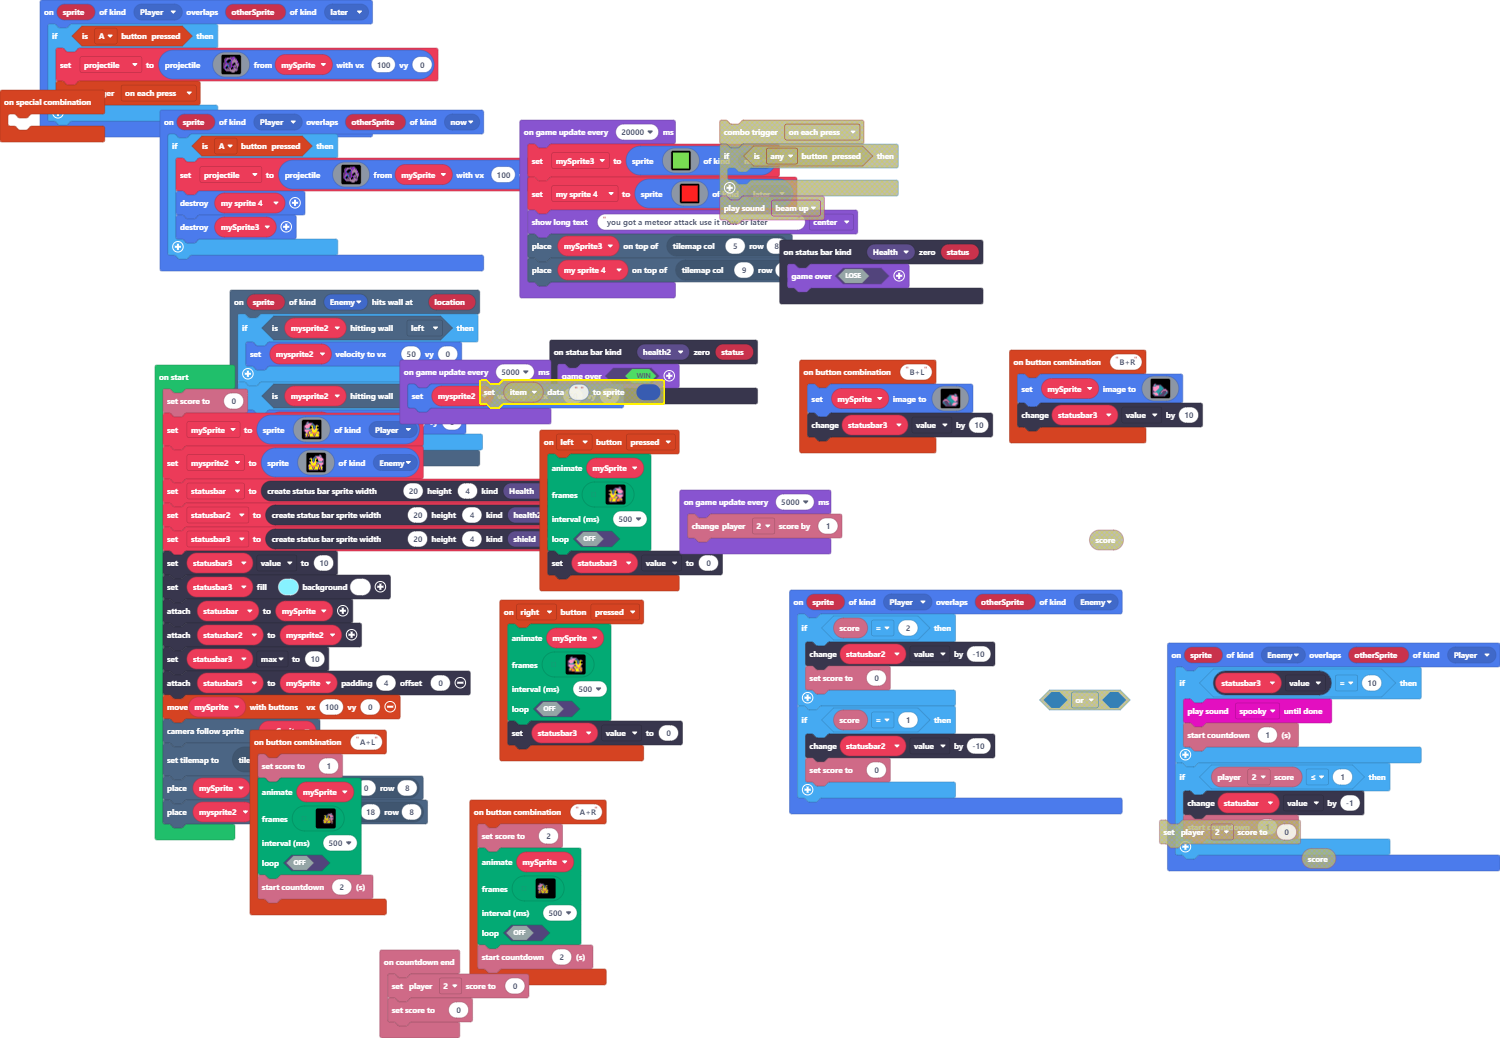
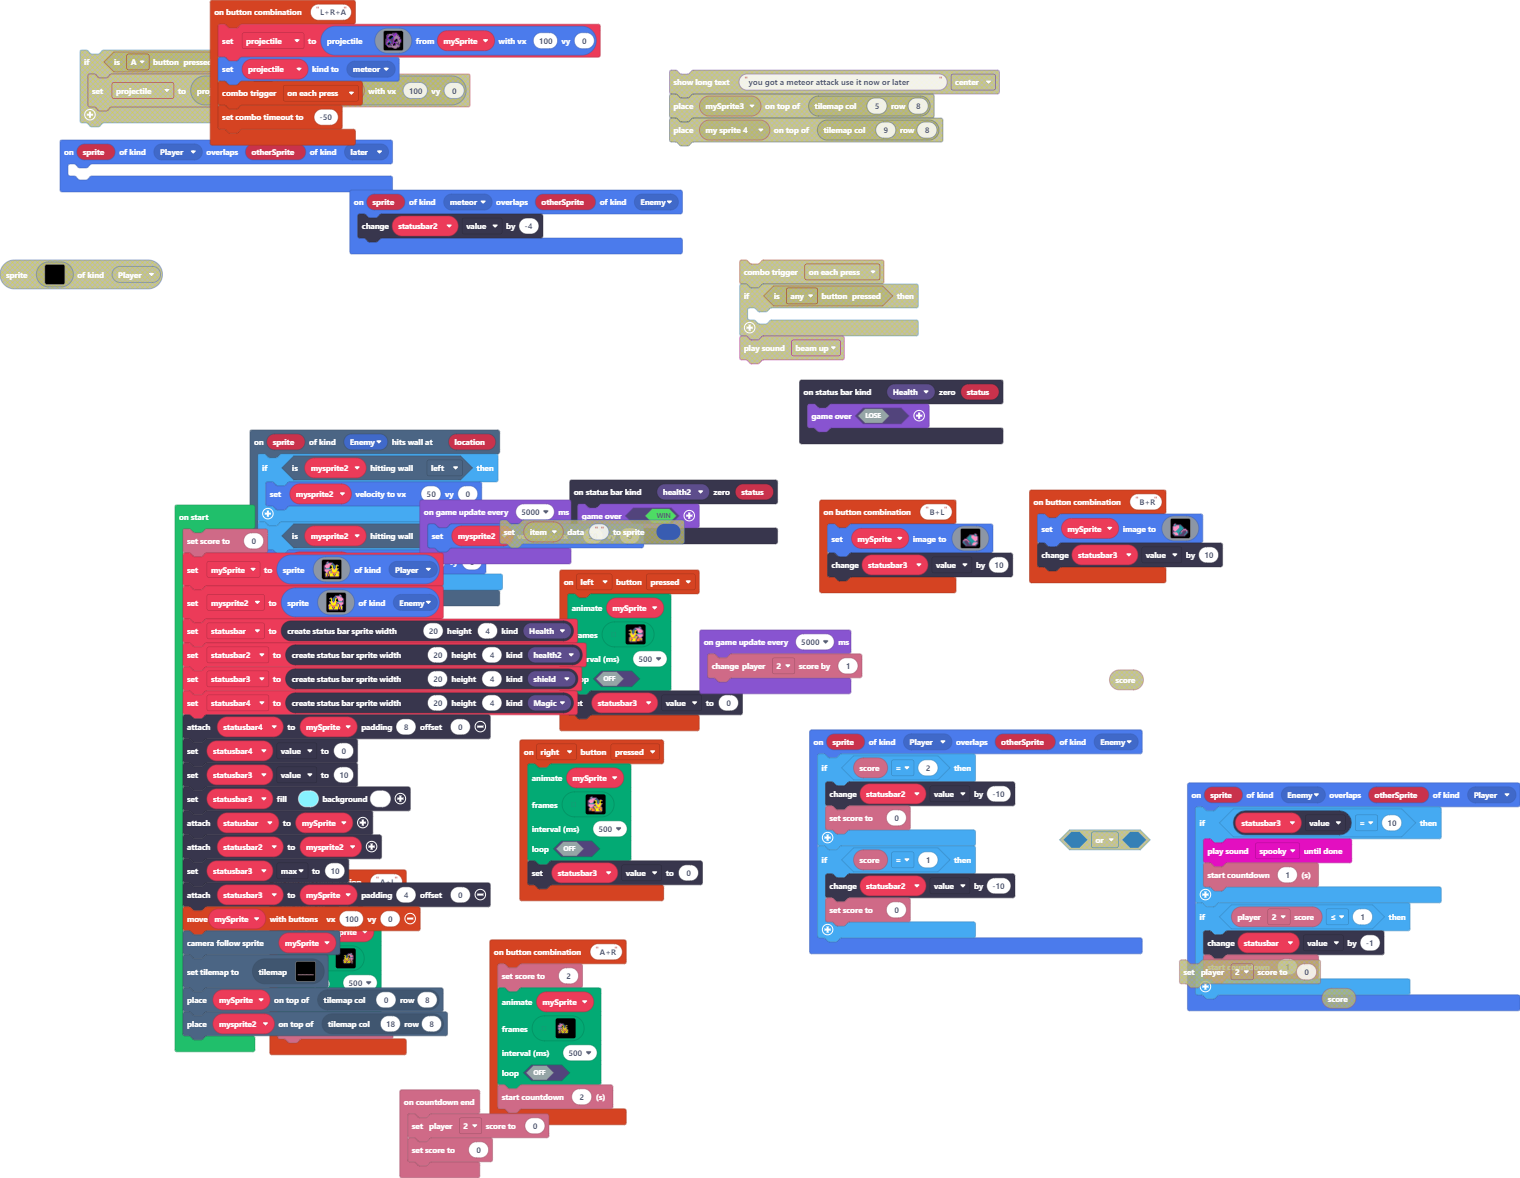
Update main.blocks, main.ts

diff --git a/main.ts b/main.ts
@@ -1,6 +1,7 @@
 namespace SpriteKind {
     export const now = SpriteKind.create()
     export const later = SpriteKind.create()
+    export const meteor = SpriteKind.create()
 }
 namespace StatusBarKind {
     export const health2 = StatusBarKind.create()
@@ -118,30 +119,6 @@ controller.combos.attachCombo("A+L", function () {
     )
     info.startCountdown(2)
 })
-sprites.onOverlap(SpriteKind.Player, SpriteKind.now, function (sprite, otherSprite) {
-    if (controller.A.isPressed()) {
-        projectile = sprites.createProjectileFromSprite(img`
-            . . . . . . . c c c a c . . . . 
-            . . c c b b b a c a a a c . . . 
-            . c c a b a c b a a a b c c . . 
-            . c a b c f f f b a b b b a . . 
-            . c a c f f f 8 a b b b b b a . 
-            . c a 8 f f 8 c a b b b b b a . 
-            c c c a c c c c a b c f a b c c 
-            c c a a a c c c a c f f c b b a 
-            c c a b 6 a c c a f f c c b b a 
-            c a b c 8 6 c c a a a b b c b c 
-            c a c f f a c c a f a c c c b . 
-            c a 8 f c c b a f f c b c c c . 
-            . c b c c c c b f c a b b a c . 
-            . . a b b b b b b b b b b b c . 
-            . . . c c c c b b b b b c c . . 
-            . . . . . . . . c b b c . . . . 
-            `, mySprite, 100, 0)
-        my_sprite_4.destroy()
-        mySprite3.destroy()
-    }
-})
 statusbars.onZero(StatusBarKind.health2, function (status) {
     game.over(true)
 })
@@ -165,6 +142,9 @@ controller.combos.attachCombo("B+L", function () {
         . . . c c c c c c c c c c c . . 
         `)
     statusbar3.value += 10
+})
+sprites.onOverlap(SpriteKind.meteor, SpriteKind.Enemy, function (sprite, otherSprite) {
+    statusbar2.value += -4
 })
 controller.combos.attachCombo("B+R", function () {
     mySprite.setImage(img`
@@ -468,6 +448,29 @@ controller.right.onEvent(ControllerButtonEvent.Pressed, function () {
     )
     statusbar3.value = 0
 })
+controller.combos.attachCombo("L+R+A", function () {
+    projectile = sprites.createProjectileFromSprite(img`
+        . . . . . . . c c c a c . . . . 
+        . . c c b b b a c a a a c . . . 
+        . c c a b a c b a a a b c c . . 
+        . c a b c f f f b a b b b a . . 
+        . c a c f f f 8 a b b b b b a . 
+        . c a 8 f f 8 c a b b b b b a . 
+        c c c a c c c c a b c f a b c c 
+        c c a a a c c c a c f f c b b a 
+        c c a b 6 a c c a f f c c b b a 
+        c a b c 8 6 c c a a a b b c b c 
+        c a c f f a c c a f a c c c b . 
+        c a 8 f c c b a f f c b c c c . 
+        . c b c c c c b f c a b b a c . 
+        . . a b b b b b b b b b b b c . 
+        . . . c c c c b b b b b c c . . 
+        . . . . . . . . c b b c . . . . 
+        `, mySprite, 100, 0)
+    projectile.setKind(SpriteKind.meteor)
+    controller.combos.setTriggerType(TriggerType.Continuous)
+    controller.combos.setTimeout(-50)
+})
 sprites.onOverlap(SpriteKind.Enemy, SpriteKind.Player, function (sprite, otherSprite) {
     if (statusbar3.value == 10) {
         music.spooky.playUntilDone()
@@ -479,29 +482,6 @@ sprites.onOverlap(SpriteKind.Enemy, SpriteKind.Player, function (sprite, otherSp
     }
 })
 sprites.onOverlap(SpriteKind.Player, SpriteKind.later, function (sprite, otherSprite) {
-    if (controller.A.isPressed()) {
-        projectile = sprites.createProjectileFromSprite(img`
-            . . . . . . . c c c a c . . . . 
-            . . c c b b b a c a a a c . . . 
-            . c c a b a c b a a a b c c . . 
-            . c a b c f f f b a b b b a . . 
-            . c a c f f f 8 a b b b b b a . 
-            . c a 8 f f 8 c a b b b b b a . 
-            c c c a c c c c a b c f a b c c 
-            c c a a a c c c a c f f c b b a 
-            c c a b 6 a c c a f f c c b b a 
-            c a b c 8 6 c c a a a b b c b c 
-            c a c f f a c c a f a c c c b . 
-            c a 8 f c c b a f f c b c c c . 
-            . c b c c c c b f c a b b a c . 
-            . . a b b b b b b b b b b b c . 
-            . . . c c c c b b b b b c c . . 
-            . . . . . . . . c b b c . . . . 
-            `, mySprite, 100, 0)
-        controller.combos.setTriggerType(TriggerType.Continuous)
-    }
-})
-controller.combos.attachSpecialCode(function () {
 	
 })
 sprites.onOverlap(SpriteKind.Player, SpriteKind.Enemy, function (sprite, otherSprite) {
@@ -514,8 +494,6 @@ sprites.onOverlap(SpriteKind.Player, SpriteKind.Enemy, function (sprite, otherSp
         info.setScore(0)
     }
 })
-let mySprite3: Sprite = null
-let my_sprite_4: Sprite = null
 let projectile: Sprite = null
 let statusbar3: StatusBarSprite = null
 let statusbar2: StatusBarSprite = null
@@ -562,6 +540,9 @@ mysprite2 = sprites.create(img`
 statusbar = statusbars.create(20, 4, StatusBarKind.Health)
 statusbar2 = statusbars.create(20, 4, StatusBarKind.health2)
 statusbar3 = statusbars.create(20, 4, StatusBarKind.shield)
+let statusbar4 = statusbars.create(20, 4, StatusBarKind.Magic)
+statusbar4.attachToSprite(mySprite, 8, 0)
+statusbar4.value = 0
 statusbar3.value = 10
 statusbar3.setColor(9, 1)
 statusbar.attachToSprite(mySprite)
@@ -578,45 +559,4 @@ game.onUpdateInterval(5000, function () {
 })
 game.onUpdateInterval(5000, function () {
     info.player2.changeScoreBy(1)
-})
-game.onUpdateInterval(20000, function () {
-    mySprite3 = sprites.create(img`
-        7 7 7 7 7 7 7 7 7 7 7 7 7 7 7 7 
-        7 7 7 7 7 7 7 7 7 7 7 7 7 7 7 7 
-        7 7 7 7 7 7 7 7 7 7 7 7 7 7 7 7 
-        7 7 7 7 7 7 7 7 7 7 7 7 7 7 7 7 
-        7 7 7 7 7 7 7 7 7 7 7 7 7 7 7 7 
-        7 7 7 7 7 7 7 7 7 7 7 7 7 7 7 7 
-        7 7 7 7 7 7 7 7 7 7 7 7 7 7 7 7 
-        7 7 7 7 7 7 7 7 7 7 7 7 7 7 7 7 
-        7 7 7 7 7 7 7 7 7 7 7 7 7 7 7 7 
-        7 7 7 7 7 7 7 7 7 7 7 7 7 7 7 7 
-        7 7 7 7 7 7 7 7 7 7 7 7 7 7 7 7 
-        7 7 7 7 7 7 7 7 7 7 7 7 7 7 7 7 
-        7 7 7 7 7 7 7 7 7 7 7 7 7 7 7 7 
-        7 7 7 7 7 7 7 7 7 7 7 7 7 7 7 7 
-        7 7 7 7 7 7 7 7 7 7 7 7 7 7 7 7 
-        7 7 7 7 7 7 7 7 7 7 7 7 7 7 7 7 
-        `, SpriteKind.now)
-    my_sprite_4 = sprites.create(img`
-        2 2 2 2 2 2 2 2 2 2 2 2 2 2 2 2 
-        2 2 2 2 2 2 2 2 2 2 2 2 2 2 2 2 
-        2 2 2 2 2 2 2 2 2 2 2 2 2 2 2 2 
-        2 2 2 2 2 2 2 2 2 2 2 2 2 2 2 2 
-        2 2 2 2 2 2 2 2 2 2 2 2 2 2 2 2 
-        2 2 2 2 2 2 2 2 2 2 2 2 2 2 2 2 
-        2 2 2 2 2 2 2 2 2 2 2 2 2 2 2 2 
-        2 2 2 2 2 2 2 2 2 2 2 2 2 2 2 2 
-        2 2 2 2 2 2 2 2 2 2 2 2 2 2 2 2 
-        2 2 2 2 2 2 2 2 2 2 2 2 2 2 2 2 
-        2 2 2 2 2 2 2 2 2 2 2 2 2 2 2 2 
-        2 2 2 2 2 2 2 2 2 2 2 2 2 2 2 2 
-        2 2 2 2 2 2 2 2 2 2 2 2 2 2 2 2 
-        2 2 2 2 2 2 2 2 2 2 2 2 2 2 2 2 
-        2 2 2 2 2 2 2 2 2 2 2 2 2 2 2 2 
-        2 2 2 2 2 2 2 2 2 2 2 2 2 2 2 2 
-        `, SpriteKind.later)
-    game.showLongText("you got a meteor attack use it now or later", DialogLayout.Center)
-    tiles.placeOnTile(mySprite3, tiles.getTileLocation(5, 8))
-    tiles.placeOnTile(my_sprite_4, tiles.getTileLocation(9, 8))
 })
